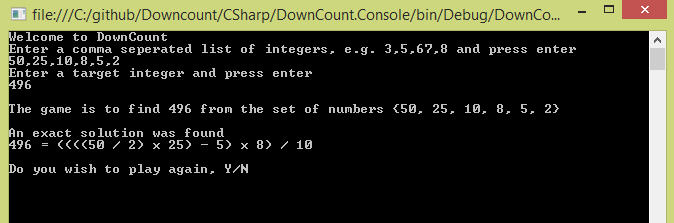
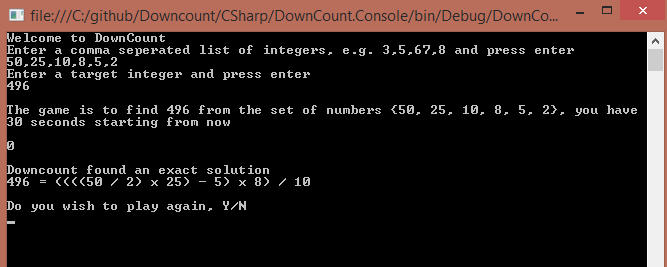
Update scren shot

Changed region(s): [[0.0, 0.0, 1.0, 1.0]]

diff --git a/README.md b/README.md
@@ -2,8 +2,6 @@ An implementation of the famous Countdown Numbers game, written in a variety of 
 
 https://www.youtube.com/watch?v=n8-mx3RSvOQ
 
-**C\#**
-
-A C# implementation can be found <a href="https://github.com/shiningdragon/Downcount/tree/master/CSharp">here</a> 
+A **C\#** implementation can be found <a href="https://github.com/shiningdragon/Downcount/tree/master/CSharp">here</a> 
 
 Javascript and F# to follow
